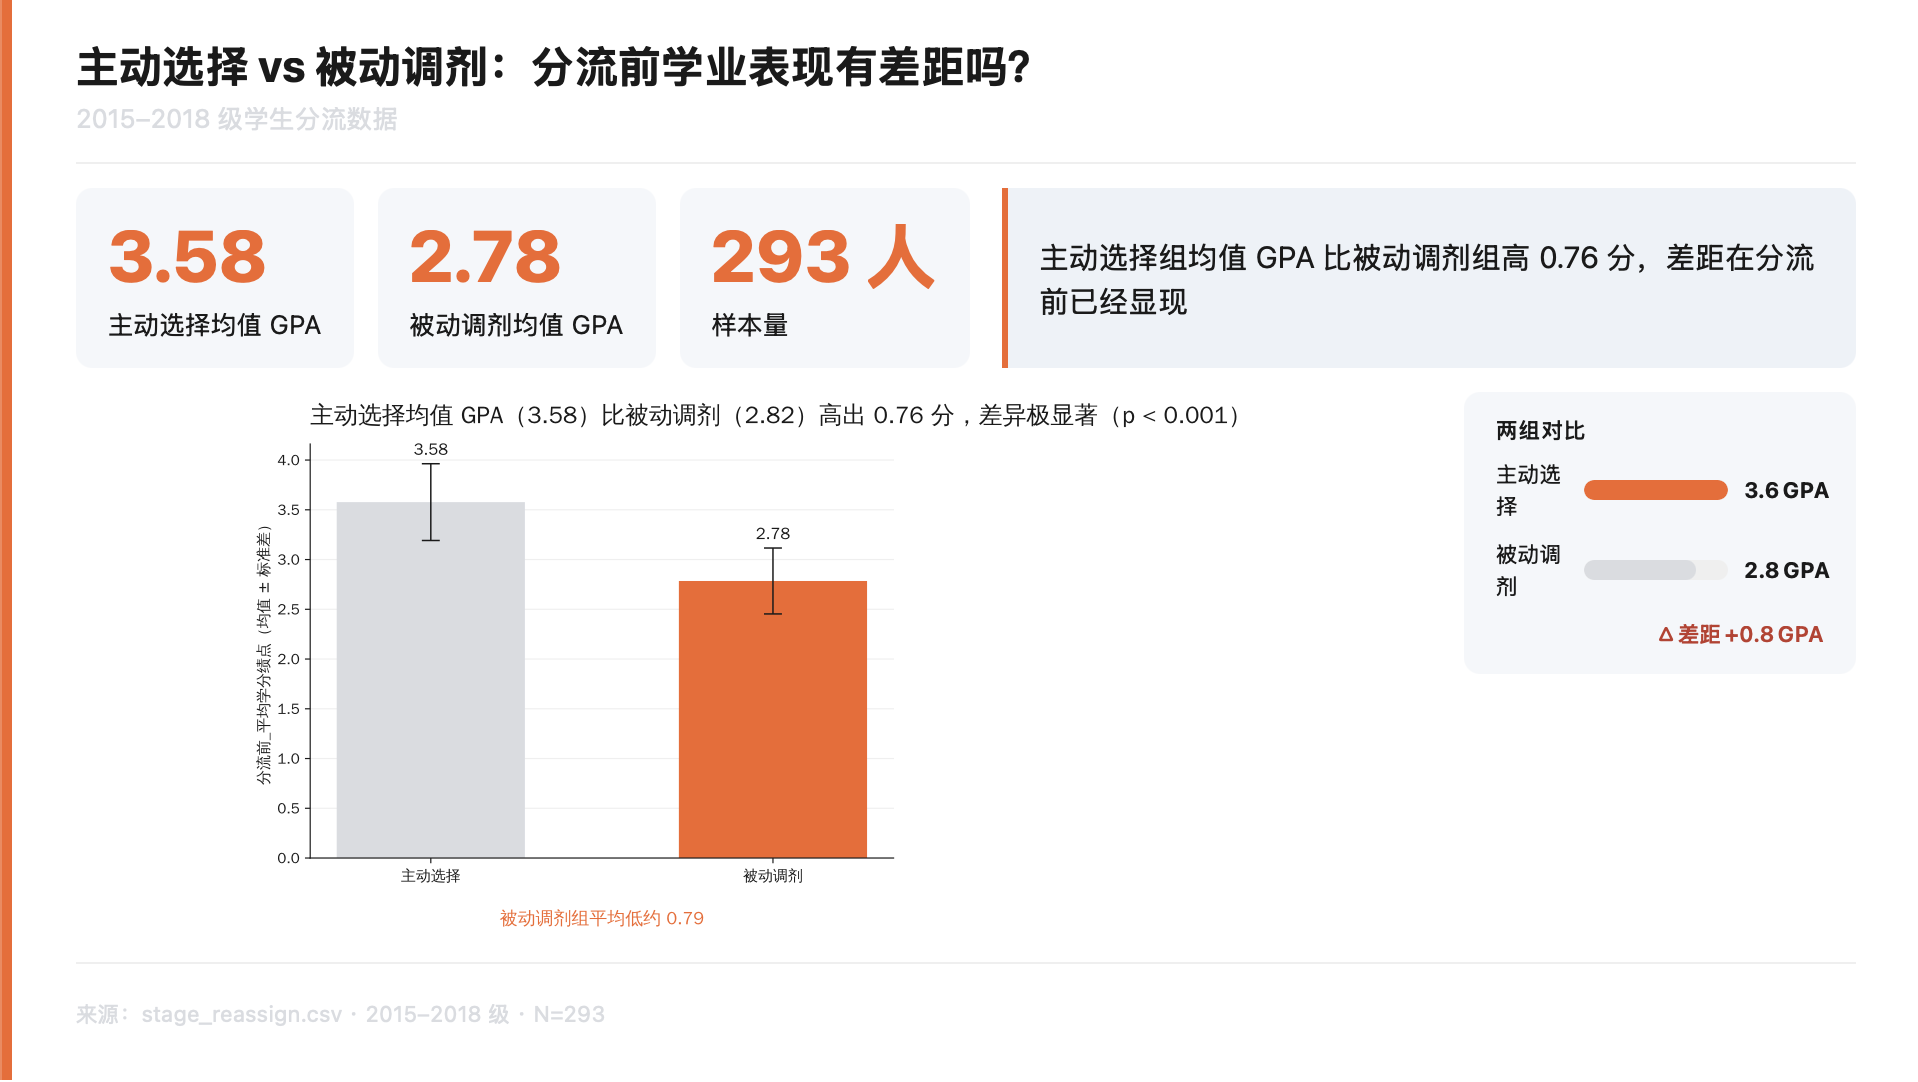
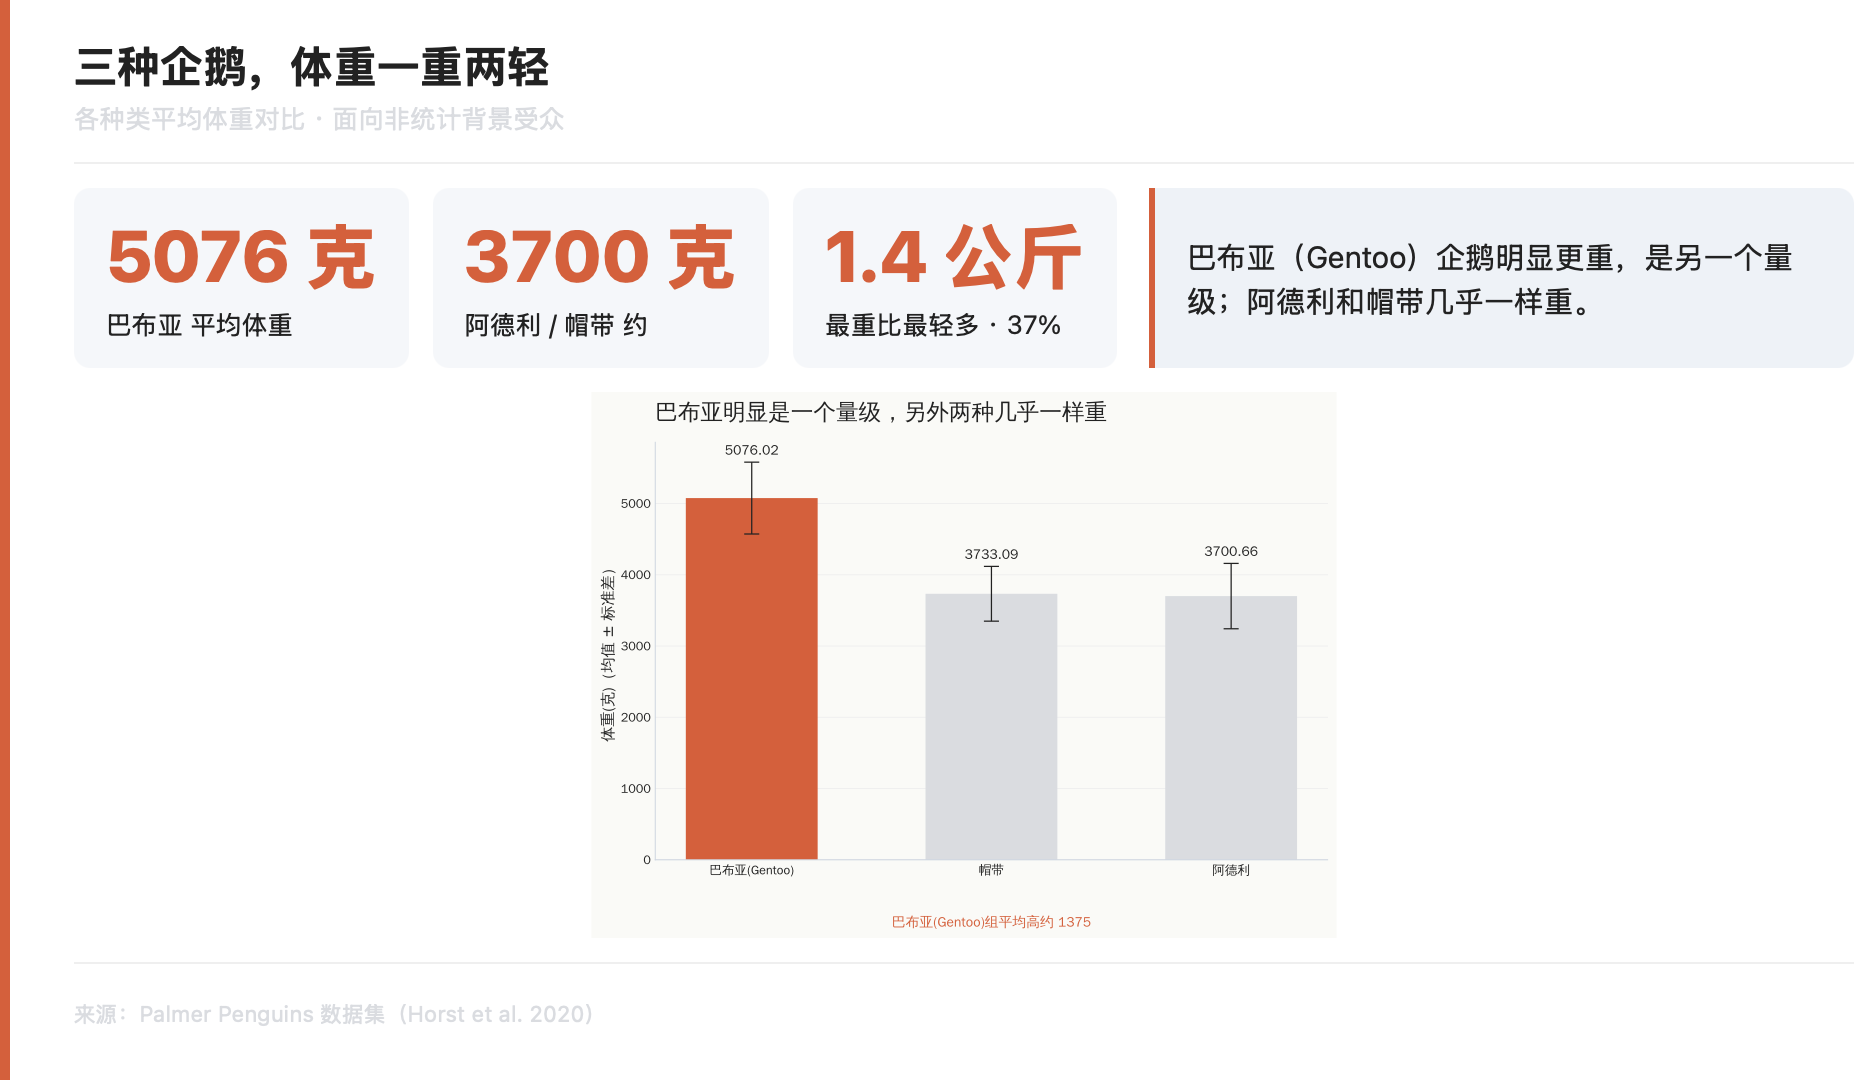
feat:Fix emphasis annotation direction and align README examples with Palmer Penguins

diff --git a/scripts/dataviz/charts.py b/scripts/dataviz/charts.py
@@ -88,17 +88,30 @@ def _annotate(ax, df, group_col, value_col, emphasize, level, palette):
     """按组合后的注释档位往图上加解释。level: 0/1/2。"""
     if level <= 0 or emphasize is None:
         return
-    means = df.groupby(group_col)[value_col].mean()
-    gap = means.max() - means.min()
-    ax.annotate(f"{emphasize}组平均低约 {gap:.2f}",
-                xy=(0.5, -0.16), xycoords="axes fraction", ha="center",
-                color=palette["highlight"],
-                fontsize=STANDARD_STYLE["font_sizes"]["annotation"], fontweight="bold")
+    means = df.groupby(group_col)[value_col].mean().dropna()
+    label = _emphasis_gap_label(means, emphasize)
+    if label is not None:
+        ax.annotate(label,
+                    xy=(0.5, -0.16), xycoords="axes fraction", ha="center",
+                    color=palette["highlight"],
+                    fontsize=STANDARD_STYLE["font_sizes"]["annotation"], fontweight="bold")
     if level >= 2:  # 叙事档：把每组均值直接标到图上
         for i, (g, m) in enumerate(means.items(), start=1):
             ax.annotate(f"{m:.2f}", xy=(i, m), xytext=(0, 8),
                         textcoords="offset points", ha="center",
                         color=palette["ink"], fontsize=STANDARD_STYLE["font_sizes"]["tick"])
+
+
+def _emphasis_gap_label(means, emphasize):
+    if emphasize not in means.index or len(means) < 2:
+        return None
+    emph_mean = means[emphasize]
+    others = means.drop(emphasize)
+    if emph_mean >= others.max():
+        gap, direction = emph_mean - others.min(), "高"
+    else:
+        gap, direction = others.max() - emph_mean, "低"
+    return f"{emphasize}组平均{direction}约 {gap:.0f}"
 
 
 def _reading_guide(ax, chart_kind, palette, y=-0.26):

diff --git a/test_routing_and_floor.py b/test_routing_and_floor.py
@@ -221,6 +221,18 @@ def assert_standard_visual_baseline_is_exported():
     assert float(view_box.group(2)) > 380
 
 
+def assert_emphasis_gap_label_uses_emphasized_group_direction():
+    means = pd.Series({
+        "Adelie": 3700.4,
+        "Gentoo": 5076.2,
+        "Chinstrap": 3733.1,
+    })
+    assert tmpl._emphasis_gap_label(means, "Gentoo") == "Gentoo组平均高约 1376"
+    assert tmpl._emphasis_gap_label(means, "Adelie") == "Adelie组平均低约 1376"
+    assert tmpl._emphasis_gap_label(means, "Missing") is None
+    assert tmpl._emphasis_gap_label(pd.Series({"Gentoo": 5076.2}), "Gentoo") is None
+
+
 if __name__ == "__main__":
     assert_floor_contract()
     assert_route_contract()
@@ -229,4 +241,5 @@ if __name__ == "__main__":
     assert_deck_strips_audience_badges_and_wraps_callout()
     assert_chart_title_wraps_long_insight()
     assert_standard_visual_baseline_is_exported()
+    assert_emphasis_gap_label_uses_emphasized_group_direction()
     print("test_routing_and_floor ok")

diff --git a/scripts/dataviz/__init__.py b/scripts/dataviz/__init__.py
@@ -5,7 +5,7 @@ from .routing import _route, _annotation_floor, _resolve_level, _check_cardinali
 from .charts import (
     box_comparison, bar_means_comparison, rate_comparison, grouped_box_comparison, grouped_bar_means_comparison,
     histogram_distribution, line_trend, kpi_number, facet_box_comparison, facet_bar_means_comparison,
-    scatter_regression, heatmap_comparison,
+    scatter_regression, heatmap_comparison, _emphasis_gap_label,
 )
 from .render import render_html
 from .visualize import visualize
@@ -17,4 +17,5 @@ __all__ = [
     "box_comparison", "bar_means_comparison", "rate_comparison", "grouped_box_comparison",
     "grouped_bar_means_comparison", "histogram_distribution", "line_trend", "kpi_number",
     "facet_box_comparison", "facet_bar_means_comparison", "scatter_regression", "heatmap_comparison",
+    "_emphasis_gap_label",
 ]

diff --git a/README.md b/README.md
@@ -13,18 +13,23 @@ import sys
 sys.path.insert(0, "scripts")
 import dataviz as dv
 
-df = dv.load_dataframe("titanic.csv")
-df["survived_01"] = dv.encode_binary(df, "survived", pos_value="yes")
+df = dv.load_dataframe("penguins.csv")
+df = df.dropna(subset=["species", "body_mass_g"]).copy()
+df["species_cn"] = df["species"].map({
+    "Gentoo": "巴布亚(Gentoo)",
+    "Chinstrap": "帽带",
+    "Adelie": "阿德利",
+}).fillna(df["species"])
 
 dv.visualize(
     df,
-    group_col="class",
-    value_col="survived_01",
-    question="不同舱位乘客的生还率差异有多大？",
-    insight="头等舱生还率明显高于三等舱，舱位等级是生还差异的重要因素",
+    group_col="species_cn",
+    value_col="body_mass_g",
+    question="不同种类的企鹅，体重差多少？",
+    insight="巴布亚企鹅明显是一个量级，平均约5076克；阿德利和帽带几乎一样重，都在3700克左右。",
     audience="low",
-    emphasize="1st",
-    save_to="titanic_survival.html",
+    emphasize="巴布亚(Gentoo)",
+    save_to="penguin_body_mass.html",
 )
 ```
 
@@ -58,7 +63,7 @@ dv.visualize(
 | 进阶型统计素养人群（`mid`） | 能理解直方图；箱线图需要辅助解读 | 保留信息量更高的图型，但补阅读指引 | 主标题 + 轴标签；临界图型补一句解读 |
 | 高阶型统计素养人群（`high`） | 可直接读懂箱线图 | 使用完整图型，如箱线、散点回归、热力图 | 主标题 + 轴标签 |
 
-同一数据、同一问题，面对不同受众会得到不同表达。下图使用专业分流数据作为呈现示例；上方 Quick Start 的 Titanic 只是更通用的代码示例。
+同一数据、同一问题，面对不同受众会得到不同表达。下图和上方 Quick Start 使用同一份 Palmer Penguins 数据作为呈现示例。
 
 ![同一数据集面向基础型、进阶型、高阶型受众的三种呈现](assets/readme/same-data-three-audiences.png)
 
@@ -86,17 +91,17 @@ deck 是可选的 16:9 演示版式：KPI 卡、核心发现 callout、图表、
 from scripts.deck import render_deck
 
 render_deck(
-    title="舱位等级与生还率：差距有多大？",
-    subtitle="Titanic passenger data",
+    title="三种企鹅，体重一重两轻",
+    subtitle="各种类平均体重对比 · 面向非统计背景受众",
     kpi_cards=[
-        {"label": "1等舱生还率", "value": "62%"},
-        {"label": "2等舱生还率", "value": "43%"},
-        {"label": "3等舱生还率", "value": "26%"},
+        {"label": "巴布亚 平均体重", "value": "5076 克"},
+        {"label": "阿德利 / 帽带 约", "value": "3700 克"},
+        {"label": "最重比最轻多 · 37%", "value": "1.4 公斤"},
     ],
-    callout="头等舱乘客生还率明显高于三等舱，舱位等级是生还差异的重要因素",
+    callout="巴布亚（Gentoo）企鹅明显更重，是另一个量级；阿德利和帽带几乎一样重。",
     chart_svg=chart_svg,
     palette=dv.STANDARD_PALETTE,
-    save_to="titanic_deck.html",
+    save_to="penguin_body_mass_deck.html",
 )
 ```
 
